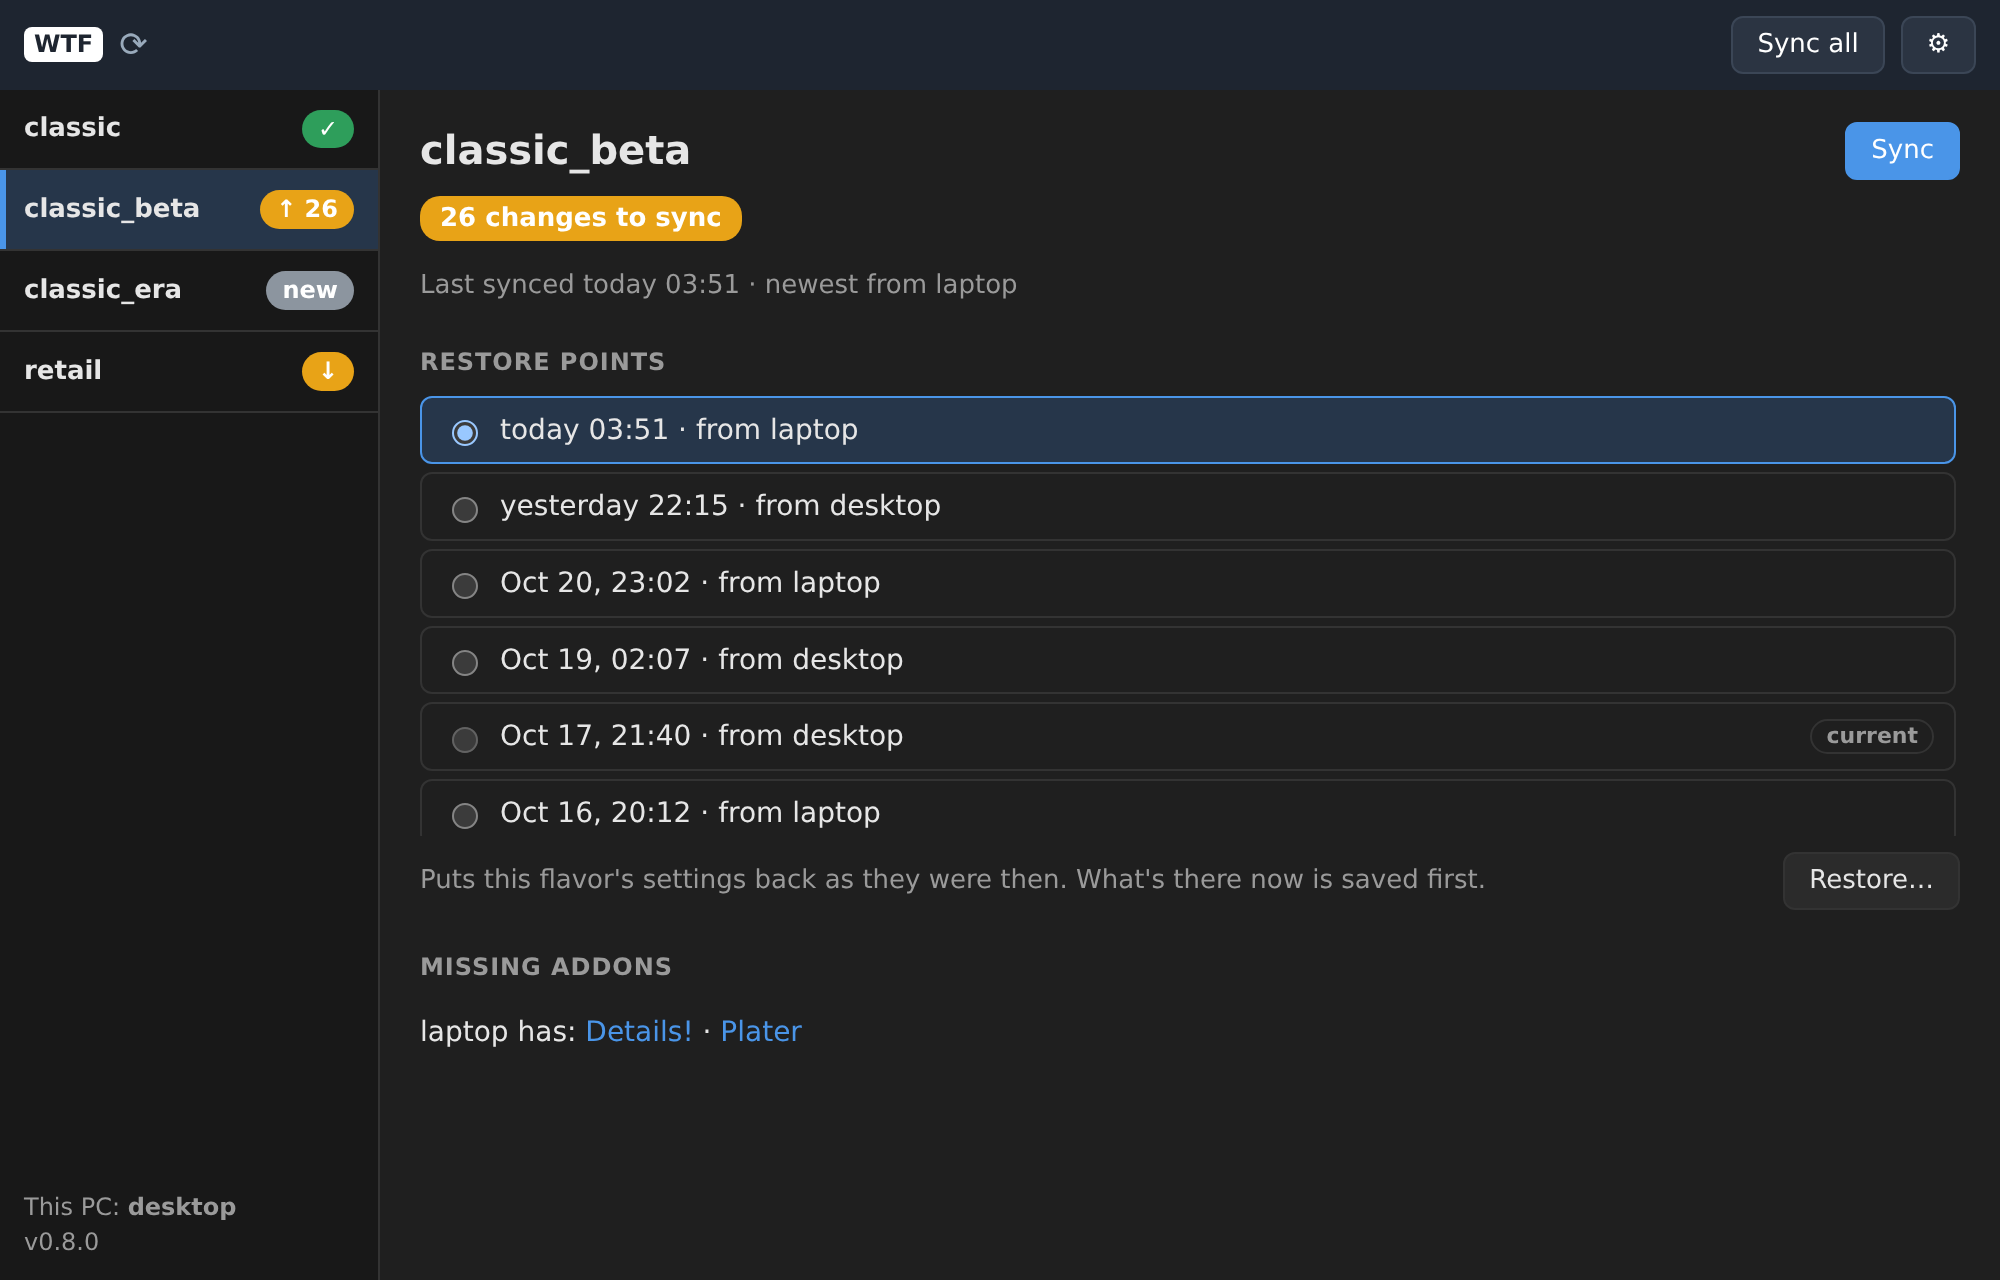
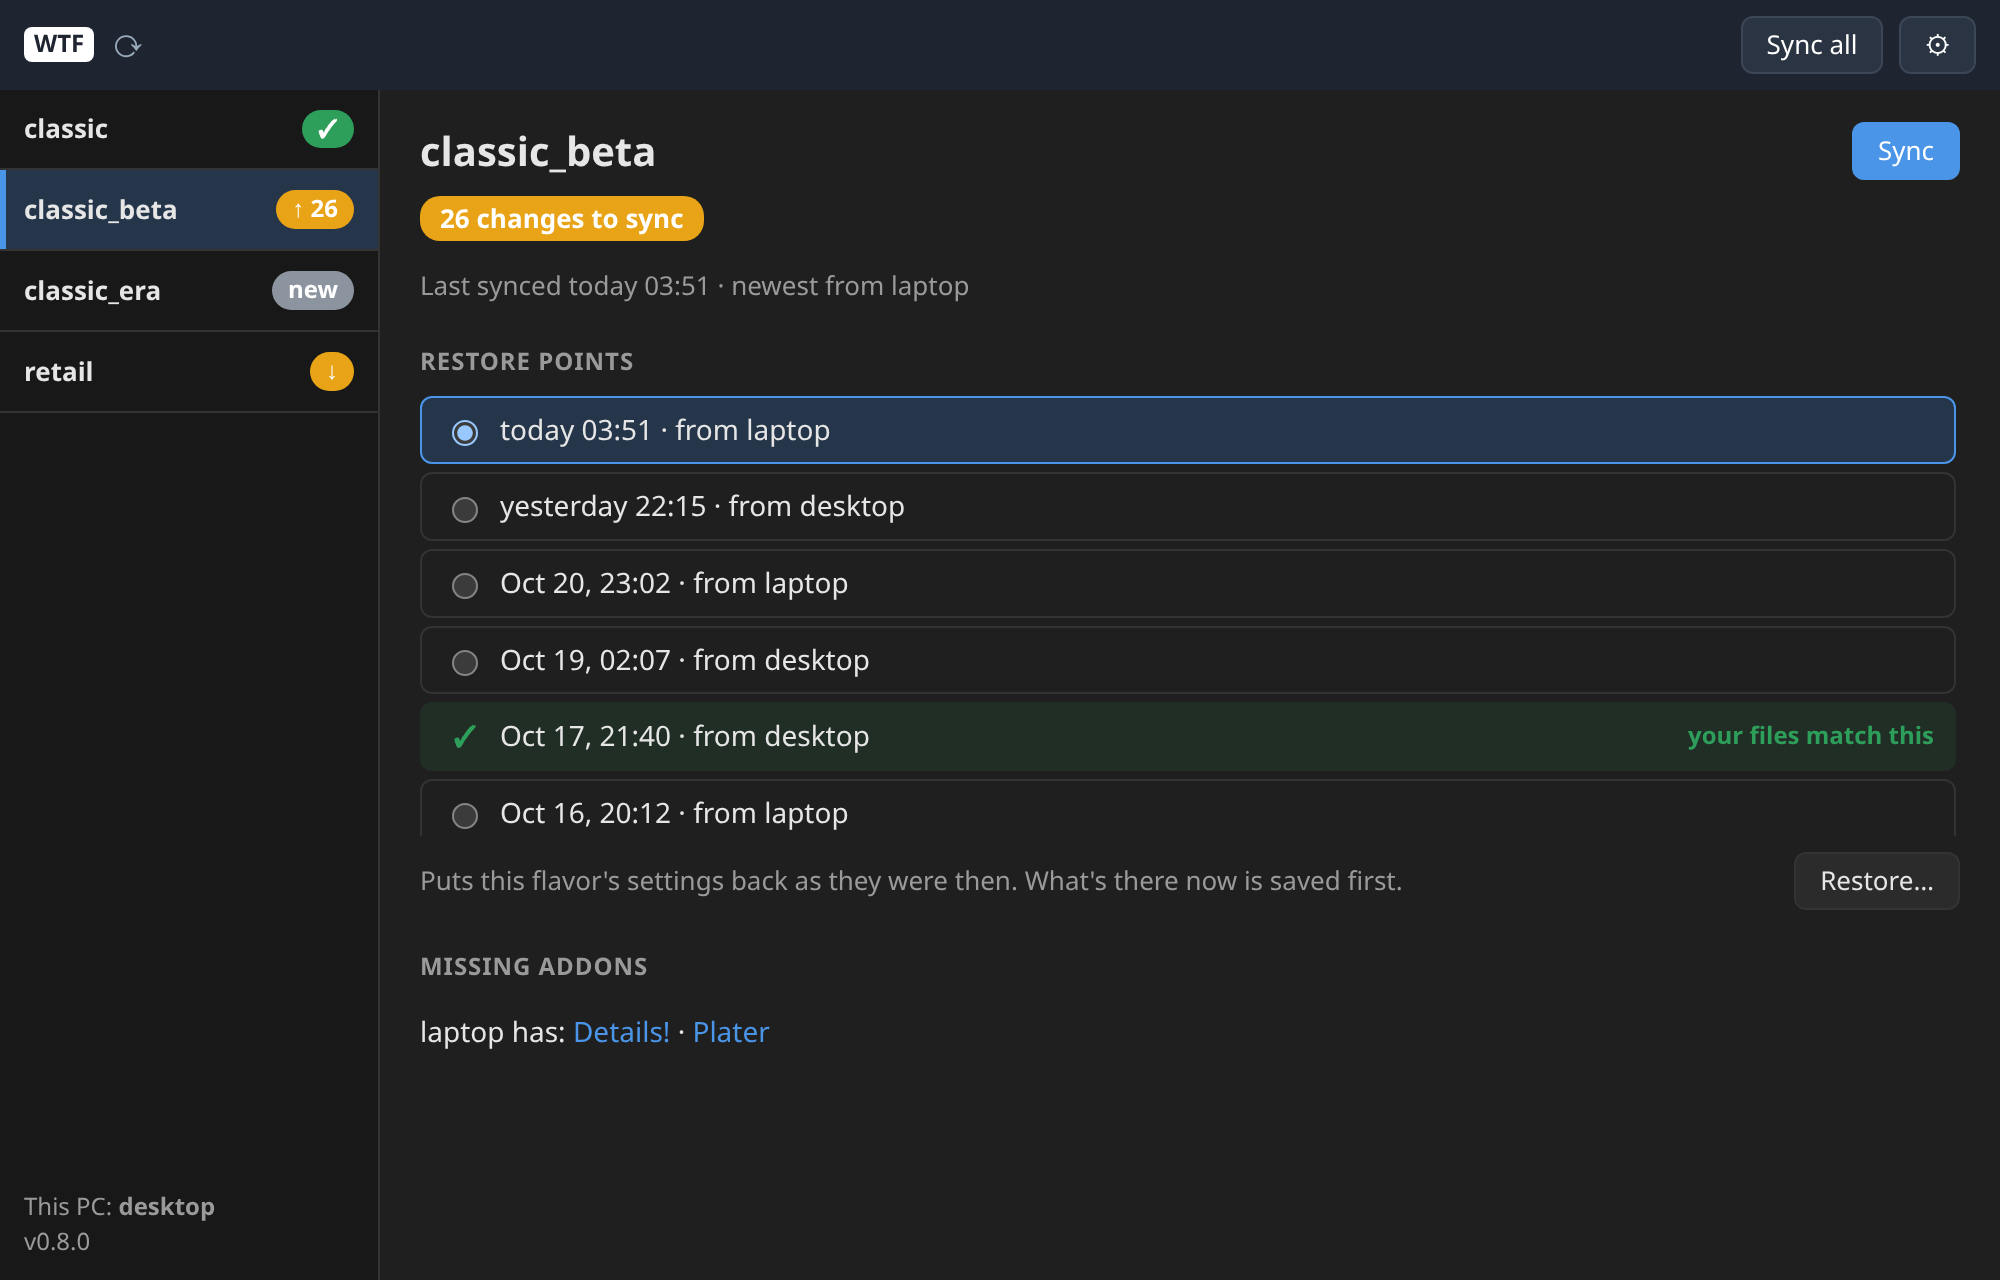
fix: show the current restore point as a plain row, not a disabled choice (#25)

diff --git a/internal/ui/web/main.js b/internal/ui/web/main.js
@@ -130,11 +130,15 @@ function points(f, busy) {
   const choosable = f.Points.filter((p) => !p.Current);
   if (!choosable.some((p) => p.Name === picked[f.Name])) picked[f.Name] = choosable.length ? choosable[0].Name : "";
   return h("div", {},
-    h("div", { class: "points" }, f.Points.map((p) =>
-      h("label", { class: "point" + (p.Current ? " current" : "") + (p.Name === picked[f.Name] ? " on" : "") },
-        h("input", { type: "radio", name: "point", disabled: p.Current, checked: p.Name === picked[f.Name], onchange: () => { picked[f.Name] = p.Name; render(); } }),
+    h("div", { class: "points" }, f.Points.map((p) => p.Current
+      // The point the files match: a plain row, not a choice.
+      ? h("div", { class: "point current" },
+        h("span", { class: "check" }, "✓"),
         h("span", { class: "grow" }, p.When, " · from ", p.From),
-        p.Current ? h("span", { class: "tag" }, "current") : ""))),
+        h("span", { class: "tag" }, "your files match this"))
+      : h("label", { class: "point" + (p.Name === picked[f.Name] ? " on" : "") },
+        h("input", { type: "radio", name: "point", checked: p.Name === picked[f.Name], onchange: () => { picked[f.Name] = p.Name; render(); } }),
+        h("span", { class: "grow" }, p.When, " · from ", p.From)))),
     h("div", { class: "row" },
       h("span", { class: "muted grow" }, "Puts this flavor's settings back as they were then. What's there now is saved first."),
       h("button", { disabled: busy || !picked[f.Name], onclick: () => { confirming = { flavor: f.Name, name: picked[f.Name] }; render(); } }, "Restore…")));

diff --git a/internal/ui/web/app.css b/internal/ui/web/app.css
@@ -74,8 +74,9 @@ body.wizard-mode .list, body.wizard-mode .top button { display: none; }
 .points { display: grid; gap: 4px; max-height: 220px; overflow-y: auto; padding-right: 2px; }
 .point { display: flex; align-items: center; gap: 8px; padding: 6px 10px; border: 1px solid var(--line); border-radius: 6px; cursor: pointer; }
 .point.on { border-color: var(--accent); background: var(--sel); }
-.point.current { cursor: default; }
-.point .tag { font-size: 11px; font-weight: 600; color: var(--muted); border: 1px solid var(--line); border-radius: 10px; padding: 0 7px; }
+.point.current { cursor: default; border-color: transparent; background: color-mix(in srgb, var(--ok) 12%, transparent); }
+.point .check { width: 13px; margin: 0 3px 0 5px; text-align: center; color: var(--ok); font-weight: 700; }
+.point .tag { font-size: 12px; font-weight: 600; color: var(--ok); }
 .confirm { border: 1px solid var(--line); border-radius: 8px; padding: 10px 12px; }
 
 /* Settings */
